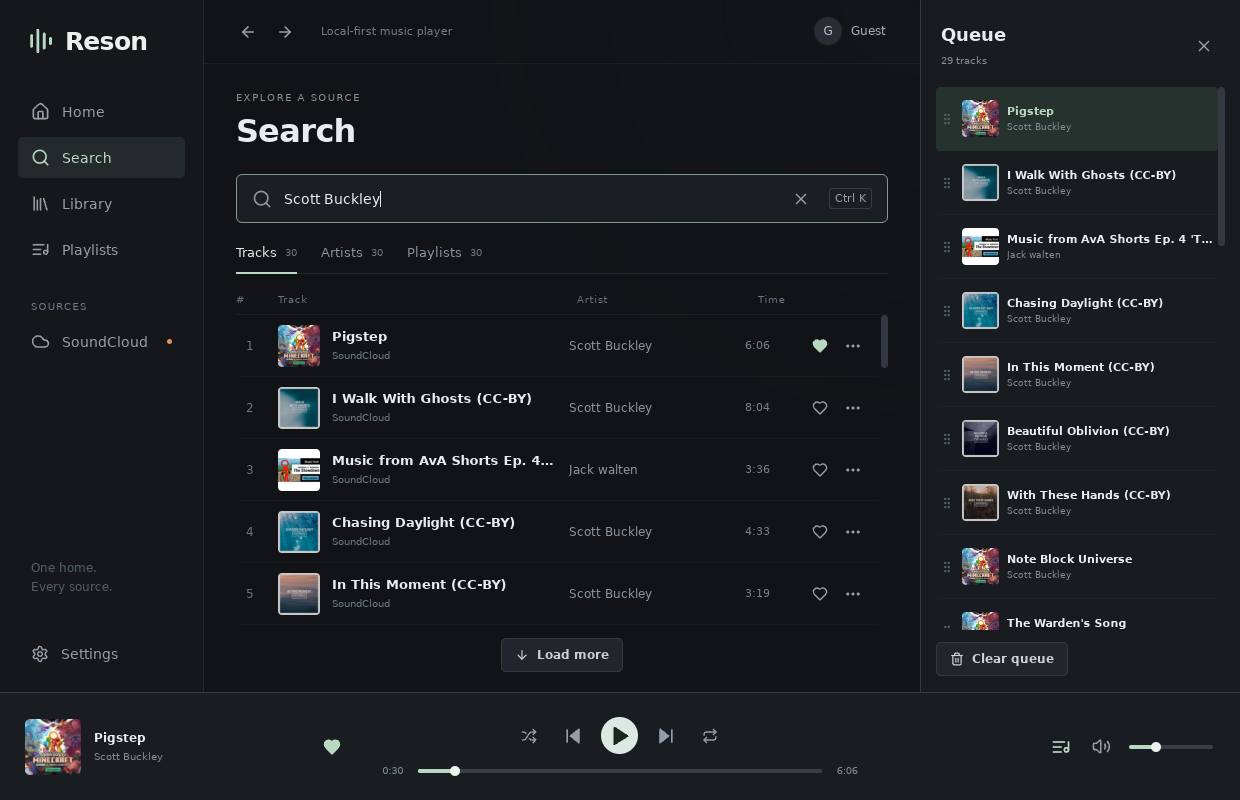
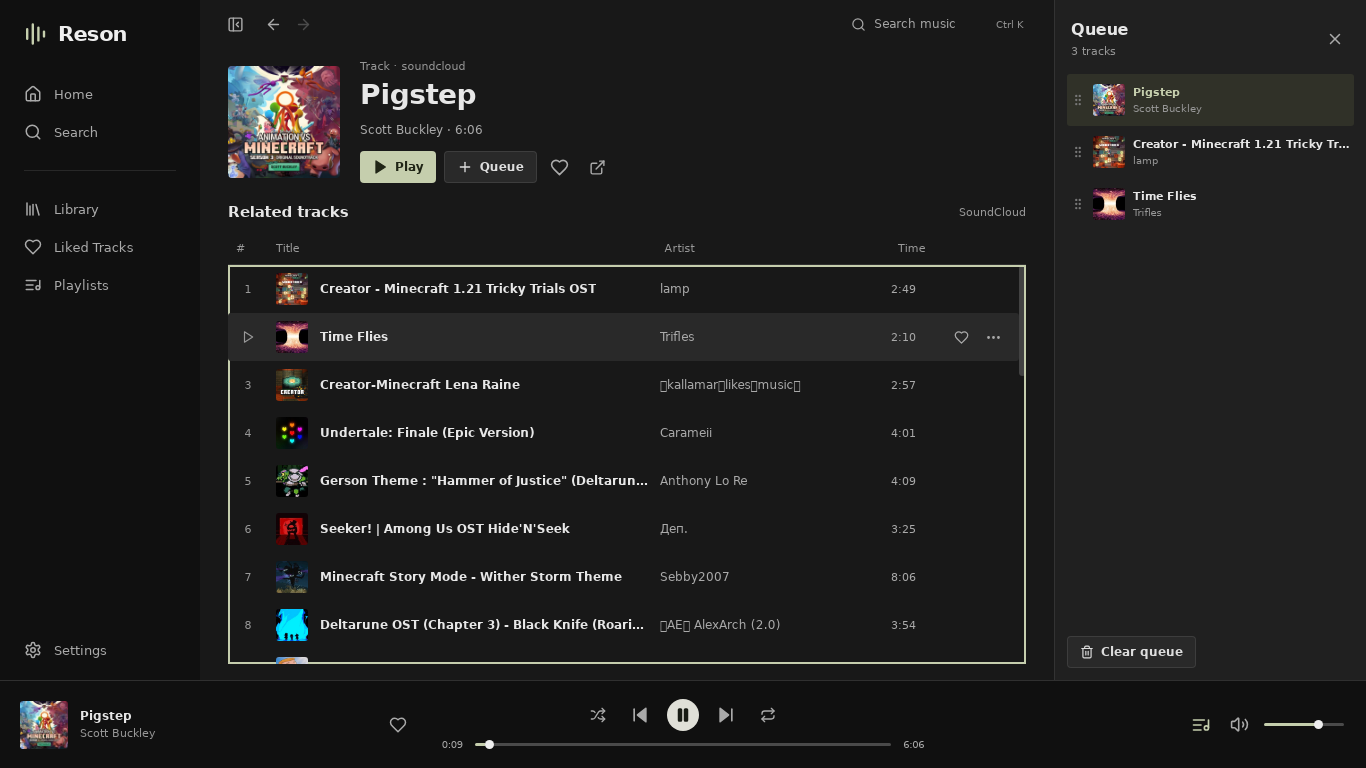
release: Reson v0.2.0 desktop redesign and persistent public likes
Record passing Windows and native production validation, replace legacy screenshots, document public import behavior and require native playback advancement for imported tracks.

diff --git a/scripts/validate-redesign.py b/scripts/validate-redesign.py
@@ -303,7 +303,7 @@ try:
     wait(lambda: js('return !document.querySelector(".dialog")'))
     # Double-click an imported row through the real UI and native player.
     js('document.querySelector(".track-row").dispatchEvent(new MouseEvent("dblclick",{bubbles:true}));')
-    wait(native_playing,180,'imported track playback')
+    wait(lambda: native_playing(True),180,'imported track playback')
     imported=rpc('bootstrap')['player']['current']
     check('Double-click plays a saved import',any(t['internal_id']==imported['internal_id'] for t in before))
     check('Imported track plays natively',True,imported['title'])

diff --git a/docs/VALIDATION.md b/docs/VALIDATION.md
@@ -1,99 +1,154 @@
-# Validation evidence
+# Reson v0.2.0 validation
 
-Validation uses real public SoundCloud content, not a mock catalog or embedded
-web player. Test audio output is deleted after inspection.
+All desktop captures come from the standalone, optimized Tauri application,
+with its normal React/core IPC and native libmpv engine. There is no Vite
+server, injected demonstration collection, embedded SoundCloud player or
+simulated import in these checks. Public service checks were run on
+10 October 2026; deterministic CI tests use recorded and explicit fault fixtures.
 
-## Native desktop on Linux, 5 October 2026
+## Automated checks
 
-The actual Tauri application was launched with an empty profile under
-WebKitGTK/Xvfb. WebDriver operated the rendered React UI and inspected the
-authoritative Rust snapshots over the normal application IPC.
+39 Rust tests and 16 frontend tests pass, alongside Rust formatting and clippy
+with warnings denied, ESLint, TypeScript checking and the production frontend
+build. Windows CI also checks and tests the full Tauri workspace.
 
-- Search `Scott Buckley`: 30 real tracks, 30 artists and 30 playlists.
-- Select `Pigstep — Scott Buckley`: fresh AAC HLS source resolved and native
-  libmpv playback advanced in real time.
-- PulseAudio output-device monitor: 575,182 float PCM samples in a six-second
-  capture; RMS 0.022071, peak 0.161145. This confirms audio reached an output
-  device rather than merely updating a timer. The device was a headless null
-  sink; physical speakers were unavailable.
-- UI pause stopped position at 9,497 ms; resume advanced it. UI HLS seek moved
-  to 45,000 ms. UI volume updated core state to 0.3.
-- A 30-track queue was edited/reordered/removed; shuffle and every repeat mode
-  were toggled in the UI. Next loaded another real track and Previous returned
-  to the earlier track.
-- The process was closed and relaunched. Queue/current entry, about 30 seconds
-  of position, volume, favorites, local playlist and installation UUID persisted.
-  State restored paused; Resume refreshed the source and continued playback.
-- Space controlled playback after restart. Actual window screenshots are in
-  `docs/images/`; their content was not fabricated or edited into a mockup.
+- Public profile normalization, URL/domain/path rejection, numeric profile
+  resolution, recorded real profile responses and malformed cursor responses.
+- Three-page import of 207 tracks, following cursors even after a short page;
+  empty versus inaccessible collections, deleted entries and unavailable metadata.
+- Rate limiting, cancellation during profile resolution, an in-flight page
+  and a 1,800-second cooldown. Cancellation checks complete within 500 ms.
+- Partial failure recovery, repeated-cursor reporting, reimport idempotency,
+  incremental refresh, simultaneous sources and alias/ownership conflicts.
+- SQLite reopen, v0.1 schema migration, interrupted job recovery, provider-scoped
+  identifiers, track dismissal/deletion and both source removal modes. A
+  regression check prevents an already resolving job from recreating a source
+  after cancellation/removal.
+- Navigation, search, dialog submission/progress/cancellation/partial errors,
+  focus trapping/restoration and Escape when a focused input becomes disabled.
+  Track selection, double-click/keyboard playback, context-menu queue actions,
+  shortcuts, details and provenance. A 12,000-track fixture renders a bounded
+  visible window instead of thousands of DOM rows.
+- Existing playback race handling, queue/shuffle/repeat behavior, stream refresh,
+  outages, storage configuration, artwork eviction and settings volume preservation.
 
-Separate native decoding validated 4,194,304 inspected float PCM samples,
-RMS 0.065142, peak 0.714613 from the refreshed SoundCloud HLS source.
+Fixtures are documented in
+[`crates/reson-core/tests/fixtures/soundcloud/README.md`](../crates/reson-core/tests/fixtures/soundcloud/README.md).
+Ordinary tests never require live SoundCloud access.
 
-## Production bundle and Windows
+## Live import and persistence
 
-The standalone Linux production bundle was built and run without a Vite/dev
-server. Real artist tracks and a hydrated SoundCloud playlist rendered; Back
-retained the search query/results. A nonexistent public SoundCloud link
-returned a recoverable unavailability error. Playback, controls and queue
-editing passed again with 575,098 captured output samples (RMS 0.022084).
-A separately launched production process restored the 29-entry queue, local
-library, volume 0.3 and position 30,000 ms, then refreshed the source and resumed.
+The real public SoundCloud web API exposed Scott Buckley's 46 liked tracks.
+The first page contained 46 entries and a cursor; a second, empty page supplied
+the terminal `next_href: null`. Both pages were requested. This deliberately
+checks that a short first page does not stop pagination.
 
-The final production rerun with `scripts/validate-desktop.py` passed all 27
-functional checks, including two sessions in the same WebDriver setup. It
-captured 569,280 output-device PCM samples (RMS 0.022049, peak 0.160746), verified
-that changing the cache setting preserves playback volume, and resumed a fresh
-stream after restarting. The README captures come from this production run.
+The import manager and the production desktop UI both saved all 46 tracks in
+SQLite without authentication. The UI showed profile identity, actual saved,
+duplicate and failure counters, and the tracks appeared immediately in Liked
+Tracks. Refresh fetched both pages again: 0 new saves, 46 duplicates, 0 failures.
+An actual process close/relaunch retained the source and all imported tracks.
+Double-clicking an imported track produced native playback through the normal
+player; imports never alter remote SoundCloud likes.
 
-The production bundle was also launched with a deliberately unreachable HTTP
-proxy. Real network I/O failed: the player showed a useful error, retained the
-queue, and local favorites/playlist edits remained functional. Search failed
-gracefully and the application stayed responsive.
+These observations describe the public collection returned during the test,
+not a guarantee that SoundCloud exposes every user's likes. Inaccessible
+responses and partial imports are reported distinctly and preserve committed pages.
 
-[Windows validation run 37285650816](https://github.com/atlasru/reson/actions/runs/37285650816)
-completed successfully. Both portable and freshly installed Windows executables
-produced 4,194,304 inspected PCM samples, RMS 0.065142, peak 0.714613 from actual
-SoundCloud AAC HLS. The release pipeline repeats these checks on the
-release commit before publishing its artifacts.
+## Production desktop interaction and visual review
 
-Tracked source and native release output were scanned for hardcoded access
-tokens/client secrets, GitHub credential patterns and private-key blocks; no
-credentials were found. Transient URLs remain runtime memory only.
+The final Linux production run passed 54 checks. The production workflow
+captures and inspects these real views:
 
-## Automated verification
+1. Home and real SoundCloud search results.
+2. Artist and track details.
+3. Active native playback and the queue.
+4. Library and the import dialog.
+5. Completed import, imported likes, sources and imported-track playback.
+6. Settings, plus Settings and Liked Tracks at 900 × 620.
 
-Core tests exercise malformed/oversized provider input, cancellation, rate
-cooldowns, large URNs, normalized identities, multi-source preservation,
-unavailable content, source refresh, outage behavior, loading/pause races,
-queue ordering/shuffle/repeat, configuration, artwork eviction and SQLite
-migration/reopen. Frontend tests verify seek gestures and real control IPC.
+The 1366 × 768 layout and the smaller window fit the persistent playback bar
+without clipped controls or horizontal overflow. The small track layout retains
+artist names below titles. Visual review removed unreadable native select
+backgrounds and the remaining placeholder account panel. Artwork, compact row
+alignment, menu placement, text overflow and source provenance were reviewed
+from actual desktop captures. README images are selected raw production captures.
 
-25 core tests and 3 frontend tests pass. The frontend regression test also
-guards volume preservation when subsequent Settings changes are submitted.
+Native checks exercise Ctrl K search focus, Back/search restoration, right-click
+Play Next/Add to Queue, queue reorder/removal, Escape, Space pause/resume, seek,
+volume, shuffle/repeat, real import/refresh and double-clicking a saved import.
+Changing settings preserves playback volume. Restart retains both imports and
+settings. The report records each successful assertion in `checks.json`.
 
-To repeat desktop checks, start `tauri-driver` in a fresh profile and run
-`python scripts/validate-desktop.py --application /absolute/path/to/reson`.
-Linux output-device capture can be included with
-`--capture-device reson_test.monitor` and a configured PulseAudio server.
-Screenshots/reports go to the selected `--output` directory. The full two-session
-check requires a WebDriver/display setup that remains alive across app exits;
-headless Xvfb should use `-noreset`.
+The Linux desktop run uses WebKitGTK with Xvfb and a PulseAudio null sink.
+A six-second output-device monitor recorded 575,026 float PCM samples,
+RMS 0.019403 and peak 0.184216, confirming that actual decoded sound reached the
+output device. Temporary PCM files were deleted. This does not test physical
+speakers. The Linux validation build disables LTO to accommodate the available
+linker/sysroot; Windows production builds retain the repository's ThinLTO setting.
 
-Windows Actions checks the full workspace, produces x64 installer/portable
-builds, validates the portable DLL against live SoundCloud, performs a fresh
-silent installation and repeats native decoding from the installed executable.
-It then starts the installed application normally, waits for its native window
-and the frontend's successful core bootstrap, and verifies that closing the
-window exits the process. A single local startup log records this connection;
-it contains no library or account data.
-CI status and artifacts are linked from the release/PR. An in-progress or failed
-run is never described as successful.
+## Windows packaging and release validation
 
-## Limits of this environment
+[Windows run 38077582767](https://github.com/atlasru/reson/actions/runs/38077582767)
+and the matching pull-request run passed all frontend, core and Windows jobs.
+The Windows production desktop report records 56 successful checks and 15
+actual WebView2 captures, including live import, refresh and process restart.
+The final release workflow repeats these checks before publishing.
 
-Windows media-overlay rendering, physical hardware media keys, real speakers,
-device removal and live Discord presence need an interactive Windows desktop
-and a registered Discord application. Native session/presence integration is
-implemented, but those hardware/service checks are not claimed here. No
-SoundCloud OAuth or Reson account backend is provisioned.
+GitHub Actions builds an x64 NSIS installer and a portable ZIP containing
+`Reson.exe`, the pinned LGPL libmpv DLL and all required license notices.
+It creates SHA256SUMS.txt for both files, validates live SoundCloud/native PCM
+from the portable executable, performs a fresh silent installation and repeats
+native decoding from the installed executable. Both probes inspect 4,194,304
+float PCM samples (RMS 0.065142, peak 0.714613).
+
+The installed desktop is then started normally. CI waits for its native window
+and successful frontend bootstrap, checks native audio initialization, and
+requires a normal process exit when the window is closed.
+
+The full production UI script attaches EdgeDriver to the actual release app's
+WebView2, exercises the workflow above, captures its rendered views and restarts
+the native process. The driver version matches the installed WebView2 runtime.
+On elevated Windows runners, temporary HKLM policy values scoped to `Reson.exe`
+enable the test connection and an isolated WebView profile. The workflow restores
+these values afterward. No test connection or policy is installed with the app.
+
+The headless Windows UI check explicitly selects libmpv's native null output
+through the normal settings IPC. Real HLS decoding and playback timing remain
+active. Audible PCM energy is checked separately by both Windows executable
+probes and by the Linux output-device monitor; a UI timer alone is insufficient.
+
+Release publication requires successful frontend, core and Windows jobs and
+verifies the SHA-256 manifest before publishing. A failed run is never described
+as a validated release. The current run and screenshot artifacts are linked
+from the pull request and release.
+
+## Repeating the checks
+
+Run the normal format/lint/typecheck/test/build commands in the README.
+For a live, persistent-library smoke test:
+
+```sh
+cargo run -p reson-core --example likes_probe -- scottbuckley
+```
+
+For production desktop UI checks, start `tauri-driver` and run:
+
+```sh
+python scripts/validate-redesign.py --application /absolute/path/to/reson --output ./screenshots
+```
+
+On Linux, direct `WebKitWebDriver` can also be used with
+`--native-webkit-driver --driver-url http://127.0.0.1:4445`.
+A configured PulseAudio monitor enables `--capture-device reson_test.monitor`.
+Headless Xvfb must remain alive across app exits (`-noreset`).
+Windows Actions supplies the WebView2 connection setup and driver automatically.
+On a headless Windows host with no sound device, pass `--audio-device null`.
+
+## Environment limits
+
+Physical Windows speakers, device removal, hardware media keys, media-overlay
+rendering and live Discord presence require an interactive hardware desktop and,
+for Discord, a registered application. Those hardware/service observations are
+not claimed by the headless tests. Public imports require no account; SoundCloud
+OAuth and remote account modifications remain outside this release.

diff --git a/docs/SOUNDCLOUD.md b/docs/SOUNDCLOUD.md
@@ -1,6 +1,6 @@
 # SoundCloud integration
 
-Investigated against the live service on 5 October 2026. This is an independent
+Investigated against the live service on 5 and 10 October 2026. This is an independent
 client, not affiliated with SoundCloud. Public access remains subject to
 SoundCloud's terms, geographic restrictions and service changes.
 
@@ -21,7 +21,7 @@ SoundCloud's terms, geographic restrictions and service changes.
 - [URN migration](https://developers.soundcloud.com/blog/urn-num-to-string/):
   entity references use string URNs. IDs must not be truncated to 32 bits.
 
-## What v0.1.0 uses
+## What v0.2.0 uses
 
 Guest SoundCloud access uses the **undocumented public web API**
 `api-v2.soundcloud.com`. The current public client identifier is discovered
@@ -56,8 +56,10 @@ can replace them without changing playback, queue or pages.
 
 ## Authentication
 
-SoundCloud login, likes, following, personal playlists and personalized feeds
-are **not implemented**. No cookies, browser sessions or user access tokens are
+SoundCloud login, remote like modifications, following, private playlists and
+account-personalized feeds are **not implemented**. Public profile likes can
+be imported into the local library as described below. No cookies, browser
+sessions or user access tokens are
 scraped. Future official OAuth support needs registered credentials and a
 deployed token service, PKCE/state validation and OS-backed token storage.
 Reson favorites and local playlists are separate, fully functional local data.

diff --git a/README.md b/README.md
@@ -7,10 +7,11 @@ library and native playback engine. **v0.2.0 adds public SoundCloud likes import
 [SoundCloud integration](docs/SOUNDCLOUD.md) ·
 [Architecture](docs/ARCHITECTURE.md) · [Roadmap](docs/ROADMAP.md)
 
-![Reson playing a real SoundCloud search result](docs/images/reson-search.png)
+![Reson playing a track imported from a public SoundCloud profile](docs/images/reson-likes.png)
 
-Actual native application capture with real SoundCloud results and native
-audio playback. [Queue screenshot](docs/images/reson-queue.png).
+Actual production desktop capture with real SoundCloud results and native
+audio playback. [Search](docs/images/reson-search.png) ·
+[Queue](docs/images/reson-queue.png).
 
 ## Install
 
@@ -157,8 +158,8 @@ request cancellation and rate limits, optional provider
 capabilities, queue operations/repeat/shuffle, source refresh, network failure,
 SQLite migration/reopen, cache limits, configuration and player gestures.
 
-See [recorded real playback and restart validation](docs/VALIDATION.md) and
-`scripts/validate-desktop.py` for repeatable native UI checks.
+See [recorded production playback, import and restart validation](docs/VALIDATION.md)
+and `scripts/validate-redesign.py` for repeatable native UI checks.
 
 ## Contributing
 
